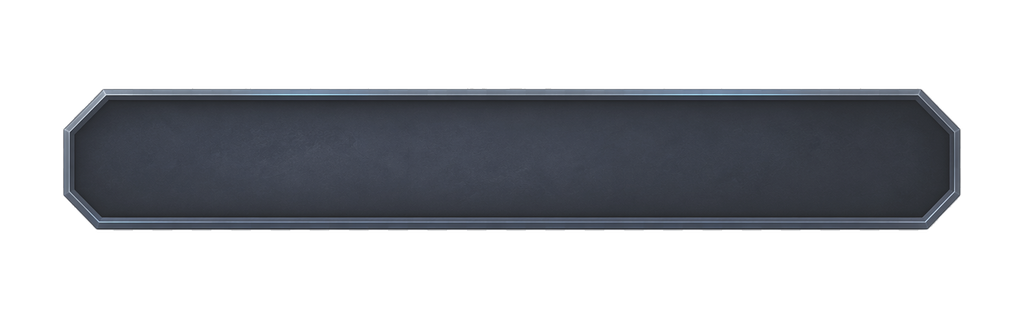
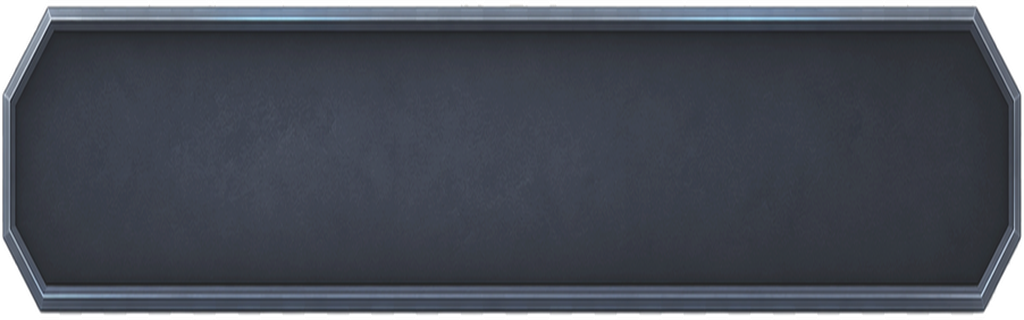
fix: 手牌底板九宫格拉伸到设计尺寸

diff --git a/src/systems/UISystem.ts b/src/systems/UISystem.ts
@@ -180,6 +180,7 @@ const UI_Z = {
 } as const;
 
 const UI_PANEL_SLICE: NineSliceInsets = { left: 96, right: 96, top: 96, bottom: 96 };
+const UI_HAND_PANEL_SLICE: NineSliceInsets = { left: 96, right: 96, top: 72, bottom: 72 };
 const UI_BUTTON_SLICE: NineSliceInsets = { left: 96, right: 96, top: 32, bottom: 32 };
 const UI_HUD_SLICE: NineSliceInsets = { left: 180, right: 180, top: 42, bottom: 42 };
 const HAND_CARD_HOVER_SCALE = 1.08;
@@ -829,7 +830,7 @@ export class UISystem implements System {
       alpha: 0.48,
       phase: 'back',
       mode: 'nine-slice',
-      slice: UI_PANEL_SLICE,
+      slice: UI_HAND_PANEL_SLICE,
     });
     this.renderer.push({
       shape: 'rect',

diff --git a/devlog/2026-06-12.md b/devlog/2026-06-12.md
@@ -122,6 +122,11 @@
 - `npm run build` 通过；保留 Vite 既有大 chunk 体积警告。
 - 本地浏览器打开 `http://127.0.0.1:3001/ai-tower-defender/`，进入第一关截图确认底部手牌区使用新底座，旧矩形底色未再压住图片。
 
+### 修正记录
+
+- 将 `ui_hand_panel.png` 的可见底板内容裁到源图边界，避免运行时拉伸后仍保留生成图透明边距。
+- 手牌区改用独立九宫格切片 `96/96/72/72`，不再复用通用面板 `96/96/96/96` 切片，确保目标高度 `180` 时九宫格中段保留可拉伸区域。
+
 ---
 
 ## 修复：敌人精灵朝向与移动方向相反